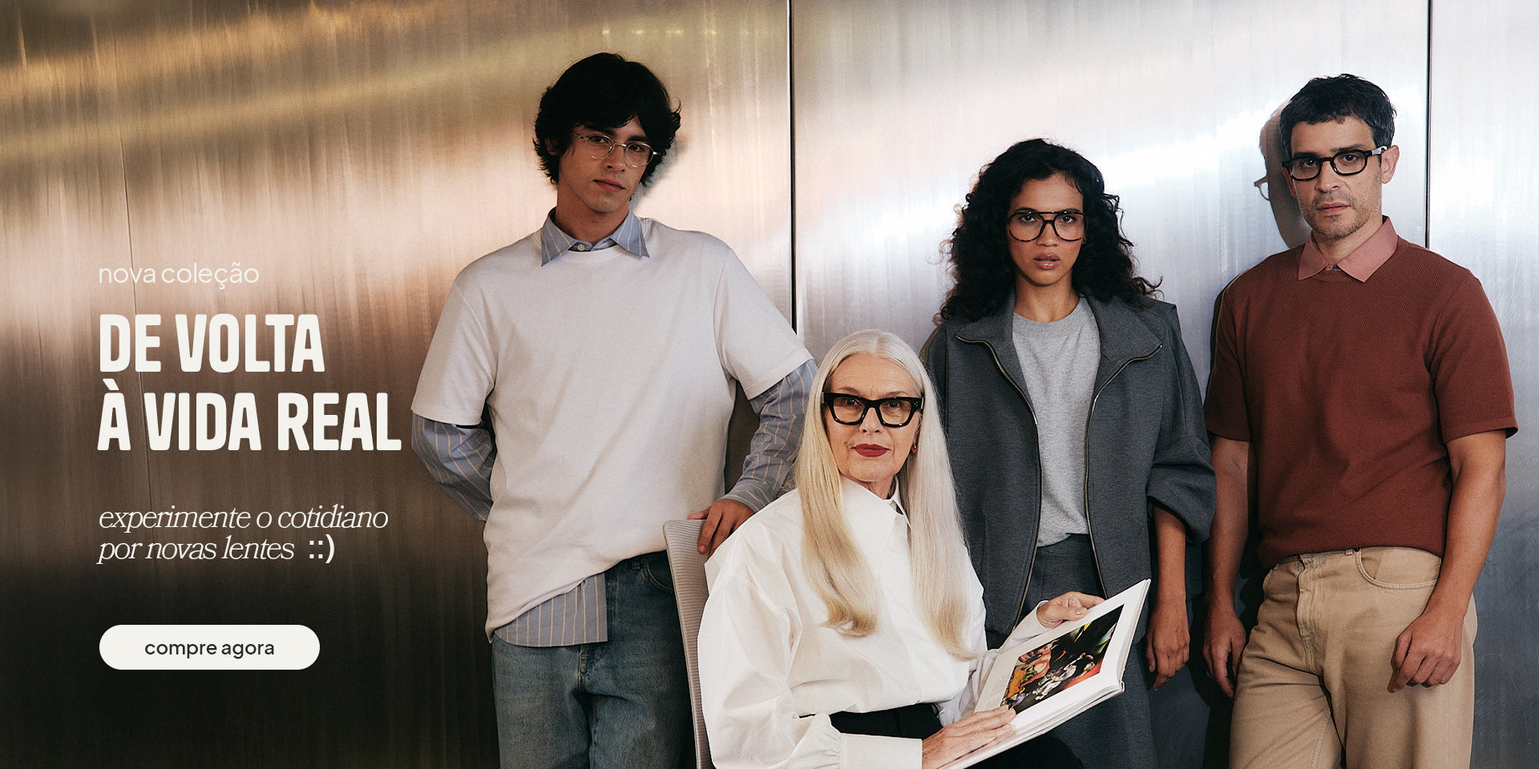
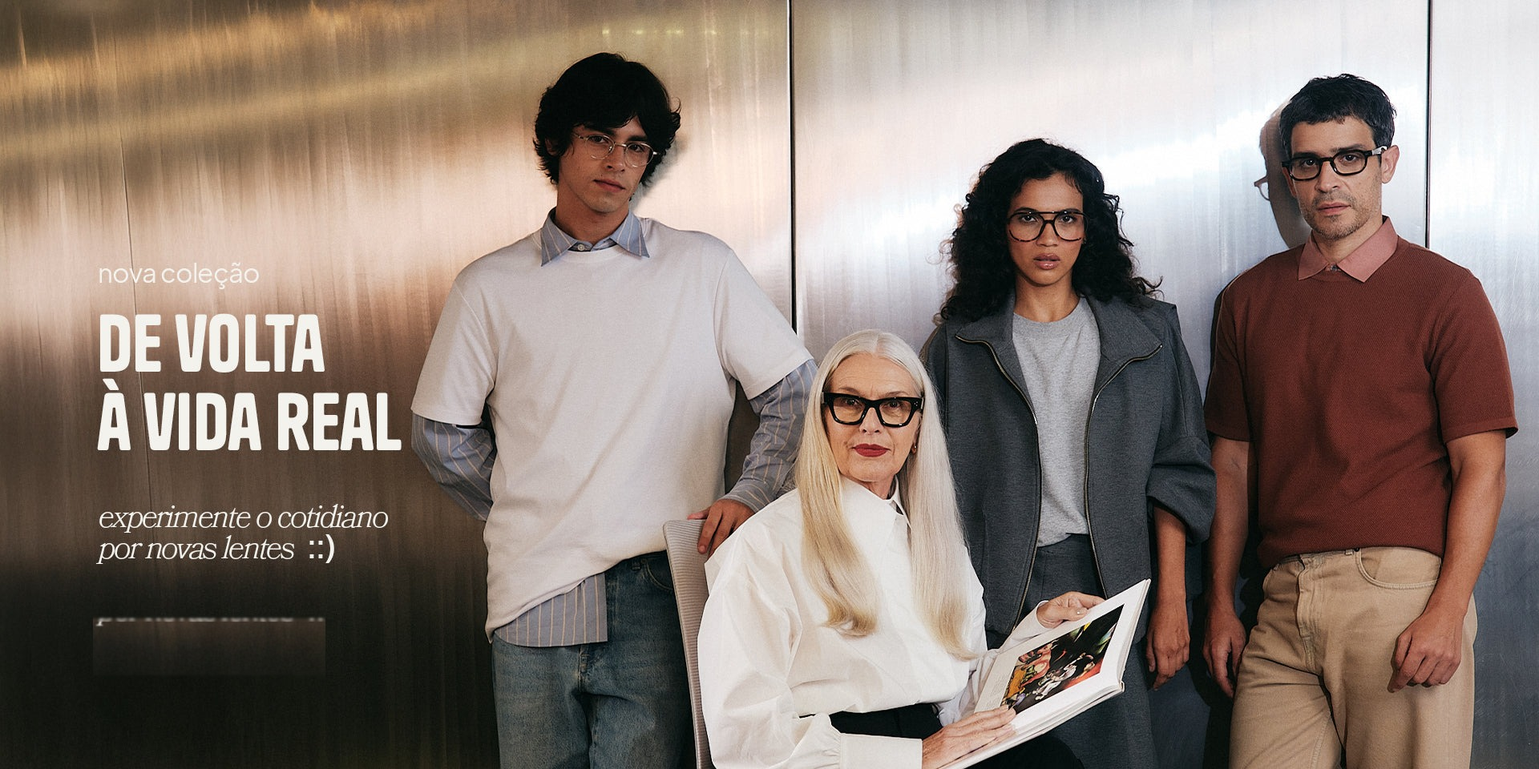
review: lote de ajustes editoriais + infra de build (#1)
- 00 resumo: bestsellers -> classicos (zera ocorrencias), 16 -> 15 nomes
- 02 funil: reduz fonte do nome do anuncio ~20% (#funil .ct 14 -> 11.5px)
- 05 mercado: ace & tate promovida de "fora do mapa" para referencia
- 08 apostas: prazer mockup com css refinado (sombra, tipografia, gradiente)
- 09 checklist: secao removida, nav e sn renumerados (outras frentes = 09)
- KV: botao "compre agora" removido da imagem (clone de textura)
- head: OG + twitter meta tags para previews de compartilhamento
- build: validate-config rodado pelo build.mjs (fail-fast em config ruim)
- build: contrast guard estendido (cfg.brand.accessibility_pairs opt-in)
- .gitignore: adiciona dist/
- remove imagem orfa banner-sol.jpg

Pendencia (proximo PR): B6 chilli beans remap aguardando snapshot do Motion MCP ou URLs do Meta Ads Library.

Changed region(s): [[0.0625, 0.7812, 0.2188, 0.875]]

diff --git a/index.html b/index.html
@@ -4,6 +4,20 @@
 <meta charset="UTF-8">
 <meta name="viewport" content="width=device-width, initial-scale=1.0">
 <title>zerezes :: leitura criativa abril 2026 v4</title>
+<meta name="description" content="leitura criativa editorial da zerezes — o que grau 26 colocou no ar em abril/2026, o que o mercado está fazendo e onde a criação pode levar a campanha no próximo mês.">
+<link rel="canonical" href="https://zerezes-leitura-criativa.vercel.app/">
+<meta property="og:type" content="article">
+<meta property="og:site_name" content="zerezes :: leitura criativa">
+<meta property="og:url" content="https://zerezes-leitura-criativa.vercel.app/">
+<meta property="og:title" content="zerezes :: leitura criativa abril 2026 v4">
+<meta property="og:description" content="um olhar editorial sobre a vida criativa da zerezes — grau 26 no ar, 7 concorrentes Meta, e as apostas para maio.">
+<meta property="og:image" content="https://zerezes-leitura-criativa.vercel.app/zerezes-imgs/banner-kv-desk.jpg">
+<meta property="og:image:alt" content="KV da campanha grau 26 — &quot;de volta à vida real&quot;">
+<meta property="og:locale" content="pt_BR">
+<meta name="twitter:card" content="summary_large_image">
+<meta name="twitter:title" content="zerezes :: leitura criativa abril 2026 v4">
+<meta name="twitter:description" content="um olhar editorial sobre a vida criativa da zerezes — grau 26 no ar, 7 concorrentes Meta, e as apostas para maio.">
+<meta name="twitter:image" content="https://zerezes-leitura-criativa.vercel.app/zerezes-imgs/banner-kv-desk.jpg">
 <link rel="preconnect" href="https://fonts.googleapis.com">
 <link rel="preconnect" href="https://fonts.gstatic.com" crossorigin>
 <link href="https://fonts.googleapis.com/css2?family=DM+Sans:ital,opsz,wght@0,9..40,300..700;1,9..40,300..700&family=DM+Serif+Display:ital@0;1&display=swap" rel="stylesheet">
@@ -86,6 +100,7 @@ h4{font-weight:700;font-size:20px;letter-spacing:-.01em;margin-bottom:12px;line-
 .cm{padding:12px 0 4px}
 .cb{font-size:10px;color:var(--laranja-dark);letter-spacing:.08em;margin-bottom:6px;font-weight:600;text-transform:lowercase}
 .ct{font-size:14px;font-weight:500;line-height:1.35;margin-bottom:6px}
+#funil .ct{font-size:11.5px;word-break:break-word;overflow-wrap:anywhere}
 .cap{font-size:12px;color:var(--cinza);font-style:italic;line-height:1.4}
 .ccp{font-size:12.5px;color:var(--preto2);line-height:1.4;margin-top:8px;padding-top:8px;border-top:1px solid var(--linha);font-style:italic}
 
@@ -161,14 +176,6 @@ h4{font-weight:700;font-size:20px;letter-spacing:-.01em;margin-bottom:12px;line-
 .anatomy .zd{font-size:14.5px;line-height:1.55;color:rgba(237,233,225,.8)}
 .anatomy .zd strong{color:var(--creme)}
 
-/* CHECKLIST */
-.checklist{margin:44px 0;max-width:920px}
-.checklist .ck-item{display:grid;grid-template-columns:36px 1fr;gap:16px;padding:20px 0;border-bottom:1px solid var(--linha);align-items:start}
-.checklist .ck-box{width:24px;height:24px;border:2px solid var(--laranja);border-radius:4px;margin-top:2px}
-.checklist .ck-title{font-weight:700;font-size:16px;margin-bottom:4px}
-.checklist .ck-desc{font-size:14px;color:var(--preto2);line-height:1.5}
-.checklist .ck-who{font-size:11px;color:var(--laranja-dark);font-weight:600;letter-spacing:.08em;text-transform:lowercase;margin-top:6px}
-
 /* CLOSING */
 .closing{padding:100px 0 72px;border-top:1px solid var(--linha2)}
 .closing .pr p.ld{font-size:23px;line-height:1.4;max-width:880px}
@@ -197,7 +204,7 @@ section{padding:56px 0}
   body{background:#fff}
   section{padding:40px 0;page-break-inside:avoid}
   .cb-block{page-break-inside:avoid}
-  .rc,.bp,.pers,.pc,.prodc,.cc,.el .it,.ck-item{page-break-inside:avoid}
+  .rc,.bp,.pers,.pc,.prodc,.cc,.el .it{page-break-inside:avoid}
   h2,h3{page-break-after:avoid}
   .hero{padding:40px 0 32px}
   img,video{max-width:100%!important;page-break-inside:avoid}
@@ -254,18 +261,19 @@ section{padding:56px 0}
 .toc-nav a .n{color:var(--laranja-dark);font-variant-numeric:tabular-nums;font-weight:600;margin-right:6px}
 
 /* PRAZER MOCKUP */
-.prazer-mock{display:grid;grid-template-columns:repeat(auto-fit,minmax(260px,1fr));gap:20px;margin:36px 0 20px}
-.prazer-card{background:var(--creme2);aspect-ratio:4/5;padding:36px 28px;display:flex;flex-direction:column;justify-content:space-between;position:relative;border:1px solid var(--linha)}
-.prazer-card .pc-head{font-size:10px;letter-spacing:.1em;color:var(--cinza);text-transform:uppercase}
-.prazer-card .pc-middle{display:flex;flex-direction:column;align-items:flex-start;gap:14px}
-.prazer-card .pc-glass{width:88%;max-width:200px;height:auto;margin:0 auto;display:block;object-fit:contain;opacity:.95}
+.prazer-mock{display:grid;grid-template-columns:repeat(auto-fit,minmax(280px,1fr));gap:28px;margin:44px 0 24px}
+.prazer-card{background:linear-gradient(180deg,var(--creme2) 0%,var(--creme3) 100%);aspect-ratio:3/4;padding:44px 36px 36px;display:flex;flex-direction:column;justify-content:space-between;position:relative;border:1px solid var(--linha);box-shadow:0 1px 2px rgba(17,17,17,.04),0 12px 32px -12px rgba(17,17,17,.1);overflow:hidden}
+.prazer-card::before{content:"";position:absolute;top:0;left:0;right:0;height:1px;background:linear-gradient(90deg,transparent,var(--laranja) 50%,transparent);opacity:.35}
+.prazer-card .pc-head{font-size:10px;letter-spacing:.14em;color:var(--cinza);text-transform:uppercase;font-weight:600}
+.prazer-card .pc-middle{display:flex;flex-direction:column;align-items:flex-start;gap:22px}
+.prazer-card .pc-glass{width:82%;max-width:220px;height:auto;margin:8px auto 4px;display:block;object-fit:contain;filter:drop-shadow(0 14px 28px rgba(17,17,17,.14)) drop-shadow(0 2px 4px rgba(17,17,17,.08))}
 .prazer-card .pc-glass-fallback{width:100%;height:80px;background:linear-gradient(90deg,transparent 0,transparent 12%,var(--preto) 12%,var(--preto) 44%,transparent 44%,transparent 56%,var(--preto) 56%,var(--preto) 88%,transparent 88%);border-radius:12px;opacity:.85}
-.prazer-card .pc-hl{font-family:'DM Sans',sans-serif;font-size:22px;font-weight:400;line-height:1.1;color:var(--preto)}
-.prazer-card .pc-hl em{font-family:'DM Serif Display',serif;font-style:italic;color:var(--laranja);font-weight:400;font-size:30px}
-.prazer-card .pc-meta{font-size:11px;color:var(--cinza);line-height:1.4}
-.prazer-card .pc-foot{display:flex;justify-content:space-between;align-items:flex-end;font-size:11px;color:var(--cinza)}
-.prazer-card .pc-foot .price{color:var(--preto);font-weight:600}
-.prazer-card .pc-sig{font-family:'DM Serif Display',serif;color:var(--laranja);font-style:italic;font-size:16px}
+.prazer-card .pc-hl{font-family:'DM Sans',sans-serif;font-size:22px;font-weight:400;line-height:1.05;color:var(--preto);letter-spacing:-.015em}
+.prazer-card .pc-hl em{font-family:'DM Serif Display',serif;font-style:italic;color:var(--laranja);font-weight:400;font-size:38px;letter-spacing:-.02em;display:inline-block;margin-top:2px}
+.prazer-card .pc-meta{font-size:12px;color:var(--cinza);line-height:1.5;letter-spacing:.01em}
+.prazer-card .pc-foot{display:flex;justify-content:space-between;align-items:flex-end;font-size:11px;color:var(--cinza);padding-top:18px;border-top:1px solid var(--linha);gap:16px}
+.prazer-card .pc-foot .price{color:var(--preto);font-weight:600;font-variant-numeric:tabular-nums;letter-spacing:.01em}
+.prazer-card .pc-sig{font-family:'DM Serif Display',serif;color:var(--laranja);font-style:italic;font-size:18px;line-height:1}
 
 /* WIREFRAME */
 .wireframe{display:grid;grid-template-columns:1fr 1fr;gap:32px;margin:36px 0;align-items:start}
@@ -300,8 +308,7 @@ section{padding:56px 0}
 <a href="#palavras"><span class="n">06</span>palavras</a>
 <a href="#anatomia"><span class="n">07</span>anatomia</a>
 <a href="#apostas"><span class="n">08</span>apostas</a>
-<a href="#checklist"><span class="n">09</span>checklist</a>
-<a href="#outras-frentes"><span class="n">10</span>outras frentes</a>
+<a href="#outras-frentes"><span class="n">09</span>outras frentes</a>
 </nav>
 <div class="pg">
 
@@ -310,7 +317,7 @@ section{padding:56px 0}
 <div class="hero-label">meta ads :: grau 26 + conta completa · 7 marcas analisadas</div>
 <h1>leitura criativa<span class="or">::</span><br><span class="thin">o que a conta disse em abril</span></h1>
 <p class="hero-sub">um olhar editorial sobre a vida criativa da zerezes — o que grau 26 colocou no ar, o que o mercado está fazendo (warby parker, oakley, ace&tate, fuel, chilli beans, livo, óticas carol), e onde o time de criação pode levar a campanha no próximo mês.</p>
-<div class="sn-box" style="margin:0 0 40px;max-width:900px"><span class="slb">nota de escopo</span><p><strong>dentro:</strong> grau 26 (foco principal — maior parte do spend em abril) · 6 concorrentes Meta. <strong>fora desta rodada:</strong> AON Solar, AON Sports, bestsellers e as collabs MASP e FARM — mapeadas em seção curta no fim; aprofundamento fica para a próxima leitura. <strong>ausentes no recorte de concorrentes:</strong> rayban e lapima — rayban tem tese próxima à oakley (tech/esporte) e lapima opera em escala editorial pequena; ambos ficam para uma rodada temática específica.</p></div>
+<div class="sn-box" style="margin:0 0 40px;max-width:900px"><span class="slb">nota de escopo</span><p><strong>dentro:</strong> grau 26 (foco principal — maior parte do spend em abril) · 6 concorrentes Meta. <strong>fora desta rodada:</strong> AON Solar, AON Sports, clássicos e as collabs MASP e FARM — mapeadas em seção curta no fim; aprofundamento fica para a próxima leitura. <strong>ausentes no recorte de concorrentes:</strong> rayban e lapima — rayban tem tese próxima à oakley (tech/esporte) e lapima opera em escala editorial pequena; ambos ficam para uma rodada temática específica.</p></div>
 <div class="hero-meta">
 <div><strong>para</strong>criação & comunicação + studio</div>
 <div><strong>por</strong>mídia</div>
@@ -322,12 +329,12 @@ section{padding:56px 0}
 <!-- 00 RESUMO -->
 <section id="resumo">
 <div class="sh"><div><div class="sk">resumo executivo</div><h2>o mês em uma página</h2></div><div class="sn">00 ::</div></div>
-<div class="pr"><p class="ld">a <strong>primeira quinzena de abril</strong> é o primeiro recorte cheio de <em>grau 26</em> no ar — e o sinal é bom. a coleção já é o centro da conta, o catálogo dinâmico trabalha pesado, os criadores chegaram no topo do funil com autoria, e o mercado está com espaço livre para quem quer ocupar o lugar editorial. este documento celebra o que está funcionando até aqui, mapeia o que os concorrentes estão dizendo, e propõe apostas concretas para o fim de abril e maio — incluindo a collab <em>The Simple Gyn</em> (AON Sports) e a campanha de novas cores dos bestsellers.</p></div>
+<div class="pr"><p class="ld">a <strong>primeira quinzena de abril</strong> é o primeiro recorte cheio de <em>grau 26</em> no ar — e o sinal é bom. a coleção já é o centro da conta, o catálogo dinâmico trabalha pesado, os criadores chegaram no topo do funil com autoria, e o mercado está com espaço livre para quem quer ocupar o lugar editorial. este documento celebra o que está funcionando até aqui, mapeia o que os concorrentes estão dizendo, e propõe apostas concretas para o fim de abril e maio — incluindo a collab <em>The Simple Gyn</em> (AON Sports) e a campanha de novas cores dos clássicos.</p></div>
 
 <div class="rg">
 <div class="rc"><div class="rl">o que funcionou</div><h4>grau 26 virou protagonista</h4><p>o catálogo dinâmico de lançamento é o ad de maior alcance da conta inteira. o carrossel de coleção roda em 6 adsets. a coleção é, de fato, o centro da narrativa zerezes em abril.</p></div>
 <div class="rc"><div class="rl">surpresa positiva</div><h4>criadores no topo de funil</h4><p>rafaela amorim, rodrigo bez, giorgia, mourajo, alice fleury — cinco vozes reais traduzindo "só quem usa sabe" em pessoa de verdade. é o pedaço mais fiel ao briefing.</p></div>
-<div class="rc hl"><div class="rl">grande oportunidade</div><h4>autoria editorial na mídia paga</h4><p>os 16 nomes literários (lena, jig, keí, lusti) e as 4 personas do filme ainda não viraram criativos individuais. é o próximo passo natural — e o material já existe.</p></div>
+<div class="rc hl"><div class="rl">grande oportunidade</div><h4>autoria editorial na mídia paga</h4><p>os 15 nomes literários (lena, jig, keí, lusti) e as 4 personas do filme ainda não viraram criativos individuais. é o próximo passo natural — e o material já existe.</p></div>
 <div class="rc"><div class="rl">mercado</div><h4>espaço largo e aberto</h4><p>warby é editorial por modelo. oakley aposta em tech. ace&tate é irreverente. chilli saiu de produto. livo está fragmentada. óticas carol fala de lente e preço. o lugar cultural é da zerezes.</p></div>
 </div>
 
@@ -509,8 +516,8 @@ section{padding:56px 0}
 <div class="taxo-body">
 <div class="taxo-row"><div class="taxo-lb">diretos<span>D2C autoral · mesmo território</span></div><div class="taxo-marcas"><strong>Livo</strong> (D2C, preço competitivo) · <strong>Fuel</strong> (coleções nomeadas, não roda meta ads — ref de posicionamento) · <strong>Lapima</strong> (D2C luxo editorial)</div></div>
 <div class="taxo-row"><div class="taxo-lb">indiretos<span>redes mainstream e regionais</span></div><div class="taxo-marcas"><strong>Óticas Carol</strong> · <strong>Óticas Diniz</strong> · <strong>Mercadão dos Óculos</strong> · <strong>Chilli Beans</strong> · <strong>Super Ótica São José</strong> · <strong>New Ótica</strong> · <strong>Óticas do Povo</strong> · <strong>QÓculos</strong> · <strong>Ponto de Visão</strong></div></div>
-<div class="taxo-row"><div class="taxo-lb">referências<span>benchmark de tom, varejo, propósito</span></div><div class="taxo-marcas"><strong>Warby Parker</strong> (eyewear D2C global) · <strong>Dengo</strong> (retail sensorial + impacto) · <strong>Allbirds</strong> (sustentabilidade escala) · <strong>Patagonia</strong> (ativismo ambiental) · <strong>Farm</strong> (lifestyle brasil) · <strong>Reserva</strong> (comunidade + tom de voz)</div></div>
-<div class="taxo-row"><div class="taxo-lb">fora do mapa<span>apareceram no feed, não estão no landscape oficial</span></div><div class="taxo-marcas"><strong>Oakley</strong> e <strong>Ace & Tate</strong> — detectadas em mídia paga na primeira quinzena; mantidas aqui pelo valor didático (tech/inovação e tom editorial europeu), mas não são referência estratégica do briefing.</div></div>
+<div class="taxo-row"><div class="taxo-lb">referências<span>benchmark de tom, varejo, propósito</span></div><div class="taxo-marcas"><strong>Warby Parker</strong> (eyewear D2C global) · <strong>Ace &amp; Tate</strong> (eyewear editorial europeia — tom irreverente) · <strong>Dengo</strong> (retail sensorial + impacto) · <strong>Allbirds</strong> (sustentabilidade escala) · <strong>Patagonia</strong> (ativismo ambiental) · <strong>Farm</strong> (lifestyle brasil) · <strong>Reserva</strong> (comunidade + tom de voz)</div></div>
+<div class="taxo-row"><div class="taxo-lb">fora do mapa<span>apareceu no feed, não está no landscape oficial</span></div><div class="taxo-marcas"><strong>Oakley</strong> — detectada em mídia paga na primeira quinzena; mantida aqui pelo valor didático (tech/inovação), mas não é referência estratégica do briefing.</div></div>
 </div>
 </div>
 
@@ -523,7 +530,7 @@ section{padding:56px 0}
 <div class="cc"><div class="ciw"><img src="https://motionswipefile.blob.core.windows.net/swipe-file-cached-links/swipe-file-source-link/1469767781466853/69daab6185c4679ee1c68638/9c3c8c24-6efb-4532-a125-8f31d44e04fe.jpg" alt="WP Spring"></div><div class="cm"><div class="cb">warby parker</div><div class="ct">Out now: Spring 2026</div><div class="cap">apresentação da coleção inteira</div><div class="ccp">"our first frames of the year are here — and they feel like a fresh start."</div><div class="tags"><span class="tag fmt">imagem</span><span class="tag funil">awareness</span><span class="tag hook">hook: seasonal launch</span></div></div></div>
 <div class="cc"><div class="ciw"><img src="https://motionswipefile.blob.core.windows.net/swipe-file-cached-links/swipe-file-source-link/2183848749069786/69daab6285c4679ee1c68680/07813344-6a5e-469a-9307-11b3aceaf1d2.jpg" alt="WP Beale"></div><div class="cm"><div class="cb">warby parker</div><div class="ct">Beale in Cognac Tortoise</div><div class="ccp">"meet your new favorite frame"</div><div class="tags"><span class="tag fmt">imagem</span><span class="tag hook">hook: modelo individual</span><span class="tag angle">ângulo: personagem</span></div></div></div>
 <div class="cc"><div class="ciw"><img src="https://motionswipefile.blob.core.windows.net/swipe-file-cached-links/swipe-file-source-link/2142600313193266/69daab6385c4679ee1c686be/58b98ed5-6e45-4d6e-a9dd-b7702409affc.jpg" alt="WP Brady"></div><div class="cm"><div class="cb">warby parker</div><div class="ct">Brady in Sea Glass Grey</div><div class="ccp">"good things are in sight"</div><div class="tags"><span class="tag fmt">imagem</span><span class="tag hook">hook: modelo individual</span></div></div></div>
-<div class="cc"><div class="ciw"><img src="https://motionswipefile.blob.core.windows.net/swipe-file-cached-links/swipe-file-source-link/1240515098065267/69daab6285c4679ee1c68679/55c02fc9-c8a7-443f-ab64-ea4c98f116f3.jpg" alt="WP Franny"></div><div class="cm"><div class="cb">warby parker</div><div class="ct">Franny in Jet Black</div><div class="ccp">"a new way to wear Franny"</div><div class="tags"><span class="tag fmt">imagem</span><span class="tag hook">hook: novo colorway de bestseller</span></div></div></div>
+<div class="cc"><div class="ciw"><img src="https://motionswipefile.blob.core.windows.net/swipe-file-cached-links/swipe-file-source-link/1240515098065267/69daab6285c4679ee1c68679/55c02fc9-c8a7-443f-ab64-ea4c98f116f3.jpg" alt="WP Franny"></div><div class="cm"><div class="cb">warby parker</div><div class="ct">Franny in Jet Black</div><div class="ccp">"a new way to wear Franny"</div><div class="tags"><span class="tag fmt">imagem</span><span class="tag hook">hook: novo colorway de clássico</span></div></div></div>
 <div class="cc"><div class="ciw vid"><video src="https://motionswipefile.blob.core.windows.net/swipe-file-cached-links/swipe-file-source-link/1625757671997484/69daab6185c4679ee1c68641/1b563f11-6721-440c-815f-3ed47961e40a.mp4" poster="https://motionswipefile.blob.core.windows.net/swipe-file-cached-links/swipe-file-source-link/1625757671997484/69daab6185c4679ee1c68641/1833027e-0ac5-4138-a0cf-ab3e1d23fa46.jpg" muted loop playsinline preload="metadata" controls></video></div><div class="cm"><div class="cb">warby parker · vídeo</div><div class="ct">Vídeo Franny :: novo colorway</div><div class="tags"><span class="tag fmt">vídeo</span><span class="tag hook">hook: visual, sem áudio</span><span class="tag angle">ângulo: lifestyle editorial</span></div></div></div>
 <div class="cc"><div class="ciw vid"><video src="https://motionswipefile.blob.core.windows.net/swipe-file-cached-links/swipe-file-source-link/2372775659907592/69daab6185c4679ee1c6864c/d98b86c4-047d-4e81-8e37-2427afdba3c0.mp4" poster="https://motionswipefile.blob.core.windows.net/swipe-file-cached-links/swipe-file-source-link/2372775659907592/69daab6185c4679ee1c6864c/5ebd1378-d3fa-4344-9126-74e1deb8a129.jpg" muted loop playsinline preload="metadata" controls></video></div><div class="cm"><div class="cb">warby parker · vídeo</div><div class="ct">"Change the way you see the world"</div><div class="cap">headline editorial, não comercial</div><div class="tags"><span class="tag fmt">vídeo</span><span class="tag hook">hook: "find your new favorite frame"</span><span class="tag angle">ângulo: manifesto de marca</span></div></div></div>
 <div class="cc"><div class="ciw"><img src="https://motionswipefile.blob.core.windows.net/swipe-file-cached-links/swipe-file-source-link/1515678836794399/69daab6385c4679ee1c686b7/d37f56da-8971-44ca-a1a3-740ce2809890.jpg" alt="WP Tint"></div><div class="cm"><div class="cb">warby parker</div><div class="ct">Tinted lenses</div><div class="ccp">"just a hint of tint"</div><div class="tags"><span class="tag fmt">imagem</span><span class="tag angle">ângulo: produto adjacente</span></div></div></div>
@@ -552,7 +559,7 @@ section{padding:56px 0}
 
 <!-- ACE & TATE -->
 <div class="cb-block">
-<div class="cbh"><div class="cbn">iii.</div><div><h3>ace & tate <span class="cat-chip fora">fora do mapa</span> <span class="mu">:: irreverência editorial europeia</span></h3></div></div>
+<div class="cbh"><div class="cbn">iii.</div><div><h3>ace & tate <span class="cat-chip referencia">referência</span> <span class="mu">:: irreverência editorial europeia</span></h3></div></div>
 <div class="pr"><p class="w">a ace & tate é a marca que mais se parece com a zerezes em tom — <strong>irreverente, editorial, jovem, quirky</strong>. em abril, lançou a campanha "90s edit" com headline <em>"get in bed with glasses — glasses so nice you'll take them to bed"</em>. também roda booking de exame de vista com vídeos nativos. é a marca que mais "conversa" com o público da grau 26.</p></div>
 
 <div class="cg">
@@ -636,7 +643,7 @@ section{padding:56px 0}
 <tbody>
 <tr><td class="mk">warby parker</td><td>"Meet your new favorite frame" · "Good things are in sight" · "A new way to wear Franny"</td><td>editorial + promessa pessoal</td><td><strong>nome próprio no headline</strong> (Franny, Beale, Brady). zerezes pode copiar a mecânica: "a new way to wear <em>lena</em>", "meet <em>keí</em>"</td></tr>
 <tr><td class="mk">ace & tate</td><td>"Get in bed with glasses" · "glasses so nice you'll take them to bed"</td><td>humor + lifestyle</td><td>copy <strong>curta, irreverente, sem jargão</strong>. uma ideia por peça. zerezes tem espaço pra brincar — "prazer, lena" já está nesse tom</td></tr>
-<tr><td class="mk">oakley</td><td>"New colors. Same athletic intelligence." · "One pair, all day"</td><td>técnico + direto</td><td>estrutura <strong>frase-curta + ponto final</strong>. funciona pra produto com benefício claro (novas cores bestseller pode usar)</td></tr>
+<tr><td class="mk">oakley</td><td>"New colors. Same athletic intelligence." · "One pair, all day"</td><td>técnico + direto</td><td>estrutura <strong>frase-curta + ponto final</strong>. funciona pra produto com benefício claro (novas cores dos clássicos pode usar)</td></tr>
 <tr><td class="mk">fuel</td><td>"Óculos tão únicos quanto você" · "Acenda seu Estilo" · "Ousamos criar o impossível"</td><td>aspiracional urbano</td><td><strong>coleções com nome</strong> (Street Flow, Born In Rio, Four Winds) — mesma mecânica da grau 26, em território oposto. vale olhar quando desenhar a collab Simple Gyn</td></tr>
 <tr><td class="mk">chilli beans</td><td>"Seja um Franqueado" · "Oportunidade de repasse"</td><td>B2B comercial</td><td>não serve como referência — fora do território da zerezes</td></tr>
 <tr><td class="mk">livo</td><td>"LIVO ACTIVE" · "Cupom ABRIL10" · "A primeira eyetech do Brasil"</td><td>fragmentada — 5 vozes</td><td>anti-exemplo: zerezes já aprendeu a não fazer isso. 1 campanha = 1 voz</td></tr>
@@ -720,27 +727,9 @@ section{padding:56px 0}
 </div>
 </section>
 
-<!-- 08 CHECKLIST -->
-<section id="checklist">
-<div class="sh"><div><div class="sk">anexo :: studio</div><h2>checklist executável <span class="tema">o que produzir em maio</span></h2></div><div class="sn">09 ::</div></div>
-
-<div class="pr"><p class="ld">lista concreta para o studio — cada item com formato, responsável sugerido e prioridade. pode ser impressa ou copiada como briefing.</p></div>
-
-<div class="checklist">
-<div class="ck-item"><div class="ck-box"></div><div><div class="ck-title">4× cortes de 10" do filme hero (uma por persona)</div><div class="ck-desc">Recortar Laura/Túlio/Letrux/Philipp do filme existente. Entregar em 9:16 e 1:1. Cada corte com packshot final do óculos + nome em serifa.</div><div class="ck-who">edição de vídeo · prioridade alta</div></div></div>
-<div class="ck-item"><div class="ck-box"></div><div><div class="ck-title">5× estáticas "prazer, —" (SKUs A da coleção)</div><div class="ck-desc">Template: fundo creme, óculos fotografado, "prazer, lena" em DM Serif Display itálica laranja, livro e autor em corpo pequeno, preço em linha fina. 5 peças: lena, jig, lusti, keí, quin.</div><div class="ck-who">design estático · prioridade alta</div></div></div>
-<div class="ck-item"><div class="ck-box"></div><div><div class="ck-title">1× template de catálogo dinâmico editorial</div><div class="ck-desc">Template para Meta: nome do modelo em serifa itálica, autor em corpo 10px, preço, fundo creme, assinatura ;;). Aplicar no catálogo de produto do feed.</div><div class="ck-who">design + mídia · prioridade alta</div></div></div>
-<div class="ck-item"><div class="ck-box"></div><div><div class="ck-title">1× carrossel Rafaela + Lena (meio de funil)</div><div class="ck-desc">3-5 cards: Rafaela usando LENA em contextos diferentes (escritório, rua, café). Card final com preço + link. Serve como "ponte" entre o vídeo dela no topo e o catálogo no fundo.</div><div class="ck-who">design + foto (se existir no banco de imagens) · prioridade média</div></div></div>
-<div class="ck-item"><div class="ck-box"></div><div><div class="ck-title">2× carrosséis segmentados por cluster RTG</div><div class="ck-desc">Variação 1: SKUs A boy zerezes + minimal vintage (LENA/JIG/QUIN/CID). Variação 2: SKUs fashion-forward (LUSTI/KEÍ/LORI). Mesmo template, seleção de produto diferente.</div><div class="ck-who">design · prioridade média</div></div></div>
-<div class="ck-item"><div class="ck-box"></div><div><div class="ck-title">3× peças "óculos + livro" para parceria Travessa</div><div class="ck-desc">Layout: foto do óculos ao lado da capa do livro correspondente. "lena + helena (machado de assis)". Formato carrossel para social + mídia paga.</div><div class="ck-who">design + direção de arte · prioridade média-baixa (timing: dia do livro)</div></div></div>
-<div class="ck-item"><div class="ck-box"></div><div><div class="ck-title">coleta das copies reais dos ads Grau26 (entrada de dados)</div><div class="ck-desc">Extrair do Motion/Meta Ads Library as copies e headlines vigentes dos ads Grau26 em abril — hoje o report cita copy dos concorrentes mas não dos próprios ads. Base para próxima leitura criativa comparar voz zerezes × voz mercado de forma simétrica.</div><div class="ck-who">mídia · prioridade alta (input para v5)</div></div></div>
-<div class="ck-item"><div class="ck-box"></div><div><div class="ck-title">2× estáticas LUSTI e LORI (cobertura dos clusters descobertos)</div><div class="ck-desc">Os dois modelos mais statement da coleção não têm peça individual. Criar no template "prazer, —". LUSTI = Torto Arado, Itamar Vieira Jr. LORI = Uma Aprendizagem, Clarice Lispector.</div><div class="ck-who">design · prioridade alta (fechar buraco do heatmap)</div></div></div>
-</div>
-</section>
-
 <!-- 09 OUTRAS FRENTES -->
 <section id="outras-frentes">
-<div class="sh"><div><div class="sk">fora do recorte principal</div><h2>outras frentes da conta em abril <span class="tema">o que roda em paralelo à grau 26</span></h2></div><div class="sn">10 ::</div></div>
+<div class="sh"><div><div class="sk">fora do recorte principal</div><h2>outras frentes da conta em abril <span class="tema">o que roda em paralelo à grau 26</span></h2></div><div class="sn">09 ::</div></div>
 
 <div class="pr"><p class="ld">grau 26 concentra o foco desta leitura — mas <strong>não é a conta inteira</strong>. em abril a zerezes também teve no ar AON Solar, AON Sports, clássicos e as collabs MASP e FARM. e entram no fim do mês duas ativações novas (<strong>entrantes</strong>, marcadas abaixo): collab <em>The Simple Gyn</em> e <em>clássicos em novas cores</em>. este bloco é um registro curto: o que existe, onde aparece oportunidade, e o que merece ser aprofundado numa próxima rodada.</p></div>
 

diff --git a/system/template/index.template.html b/system/template/index.template.html
@@ -4,6 +4,20 @@
 <meta charset="UTF-8">
 <meta name="viewport" content="width=device-width, initial-scale=1.0">
 <title>{{title}}</title>
+<meta name="description" content="{{og_description}}">
+<link rel="canonical" href="{{og_url}}">
+<meta property="og:type" content="{{og_type}}">
+<meta property="og:site_name" content="{{og_site_name}}">
+<meta property="og:url" content="{{og_url}}">
+<meta property="og:title" content="{{title}}">
+<meta property="og:description" content="{{og_description}}">
+<meta property="og:image" content="{{og_image}}">
+<meta property="og:image:alt" content="{{og_image_alt}}">
+<meta property="og:locale" content="pt_BR">
+<meta name="twitter:card" content="summary_large_image">
+<meta name="twitter:title" content="{{title}}">
+<meta name="twitter:description" content="{{og_description}}">
+<meta name="twitter:image" content="{{og_image}}">
 <link rel="preconnect" href="https://fonts.googleapis.com">
 <link rel="preconnect" href="https://fonts.gstatic.com" crossorigin>
 <link href="{{fonts_url}}" rel="stylesheet">
